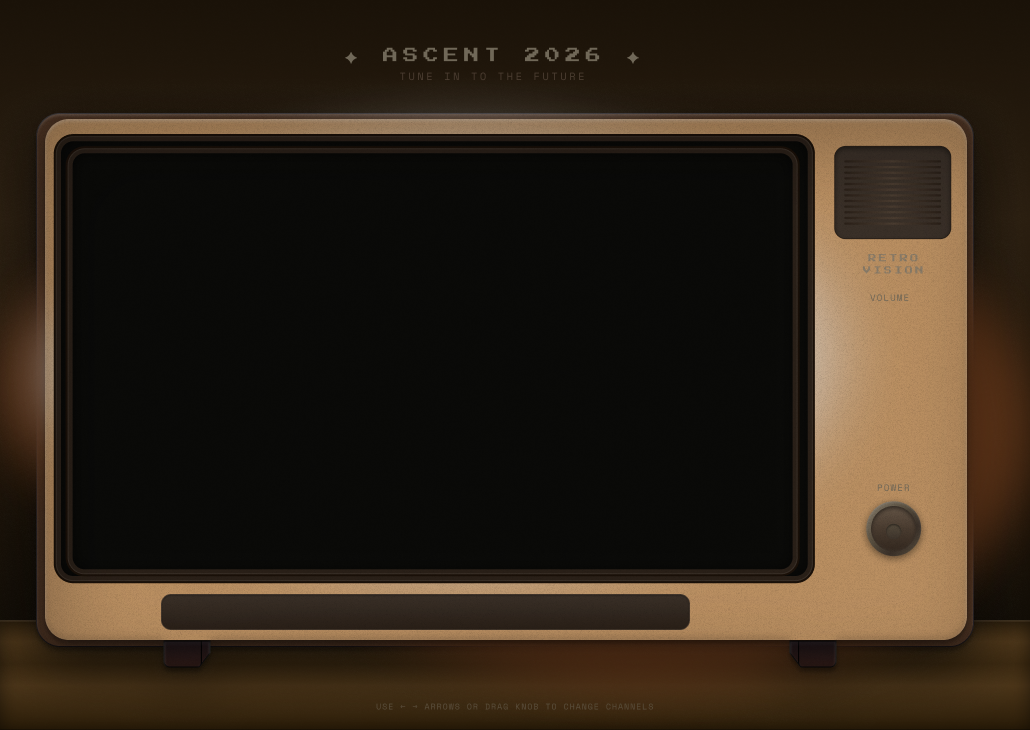
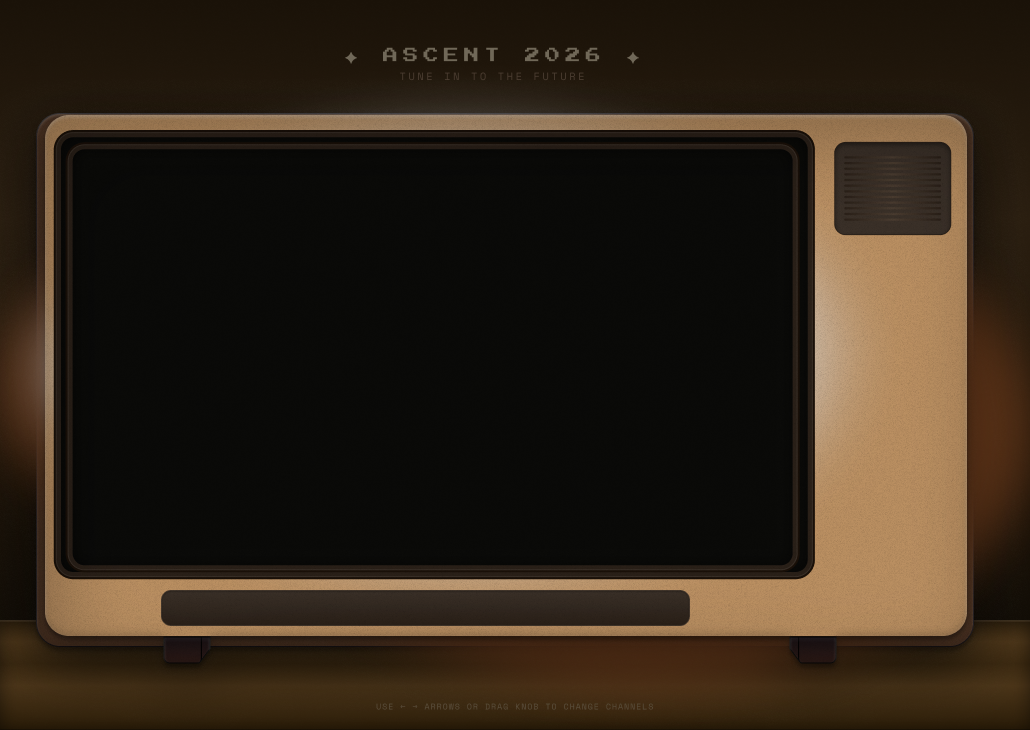
add power on/off indicator light below power knob

diff --git a/styles/tv.module.css b/styles/tv.module.css
@@ -58,12 +58,14 @@
 
 .powerIndicatorSlot {
   position: absolute;
-  left: 85.1%;
-  top: 75.65%;
-  width: 3.2%;
+  left: 84.1%;
+  top: 67.65%;
+  width: 5.1%;
   display: flex;
+  flex-direction: column;
   align-items: center;
   justify-content: center;
+  gap: 0.6rem;
 }
 
 .powerIndicator {
@@ -71,6 +73,24 @@
   height: auto;
   pointer-events: none;
   filter: drop-shadow(0 2px 4px rgba(0, 0, 0, 0.3));
+}
+
+.powerLight {
+  width: 0.8rem;
+  height: 0.8rem;
+  border-radius: 999px;
+  transition: all 150ms ease-in-out;
+  pointer-events: none;
+}
+
+.powerLightOn {
+  background: #ff4444;
+  box-shadow: 0 0 12px rgba(255, 68, 68, 0.8), 0 0 24px rgba(255, 68, 68, 0.4);
+}
+
+.powerLightOff {
+  background: rgba(80, 80, 80, 0.4);
+  box-shadow: none;
 }
 
 .powerButton {

diff --git a/components/tv/TVFrame.tsx b/components/tv/TVFrame.tsx
@@ -53,12 +53,14 @@ export function TVFrame({ children }: { children: React.ReactNode }) {
             viewBox="0 0 73 73"
             fill="none"
           >
-            <image
-              href="/tv-parts/power-knob.svg"
-              width="100%"
-              height="100%"
-            />
+            <image href="/tv-parts/power-knob.svg" width="100%" height="100%" />
           </svg>
+          
+          {/* Power on/off indicator light */}
+          <div 
+            className={`${styles.powerLight} ${isPoweredOn ? styles.powerLightOn : styles.powerLightOff}`}
+            aria-hidden="true"
+          />
         </div>
 
         {/* Power button (clickable area) */}
